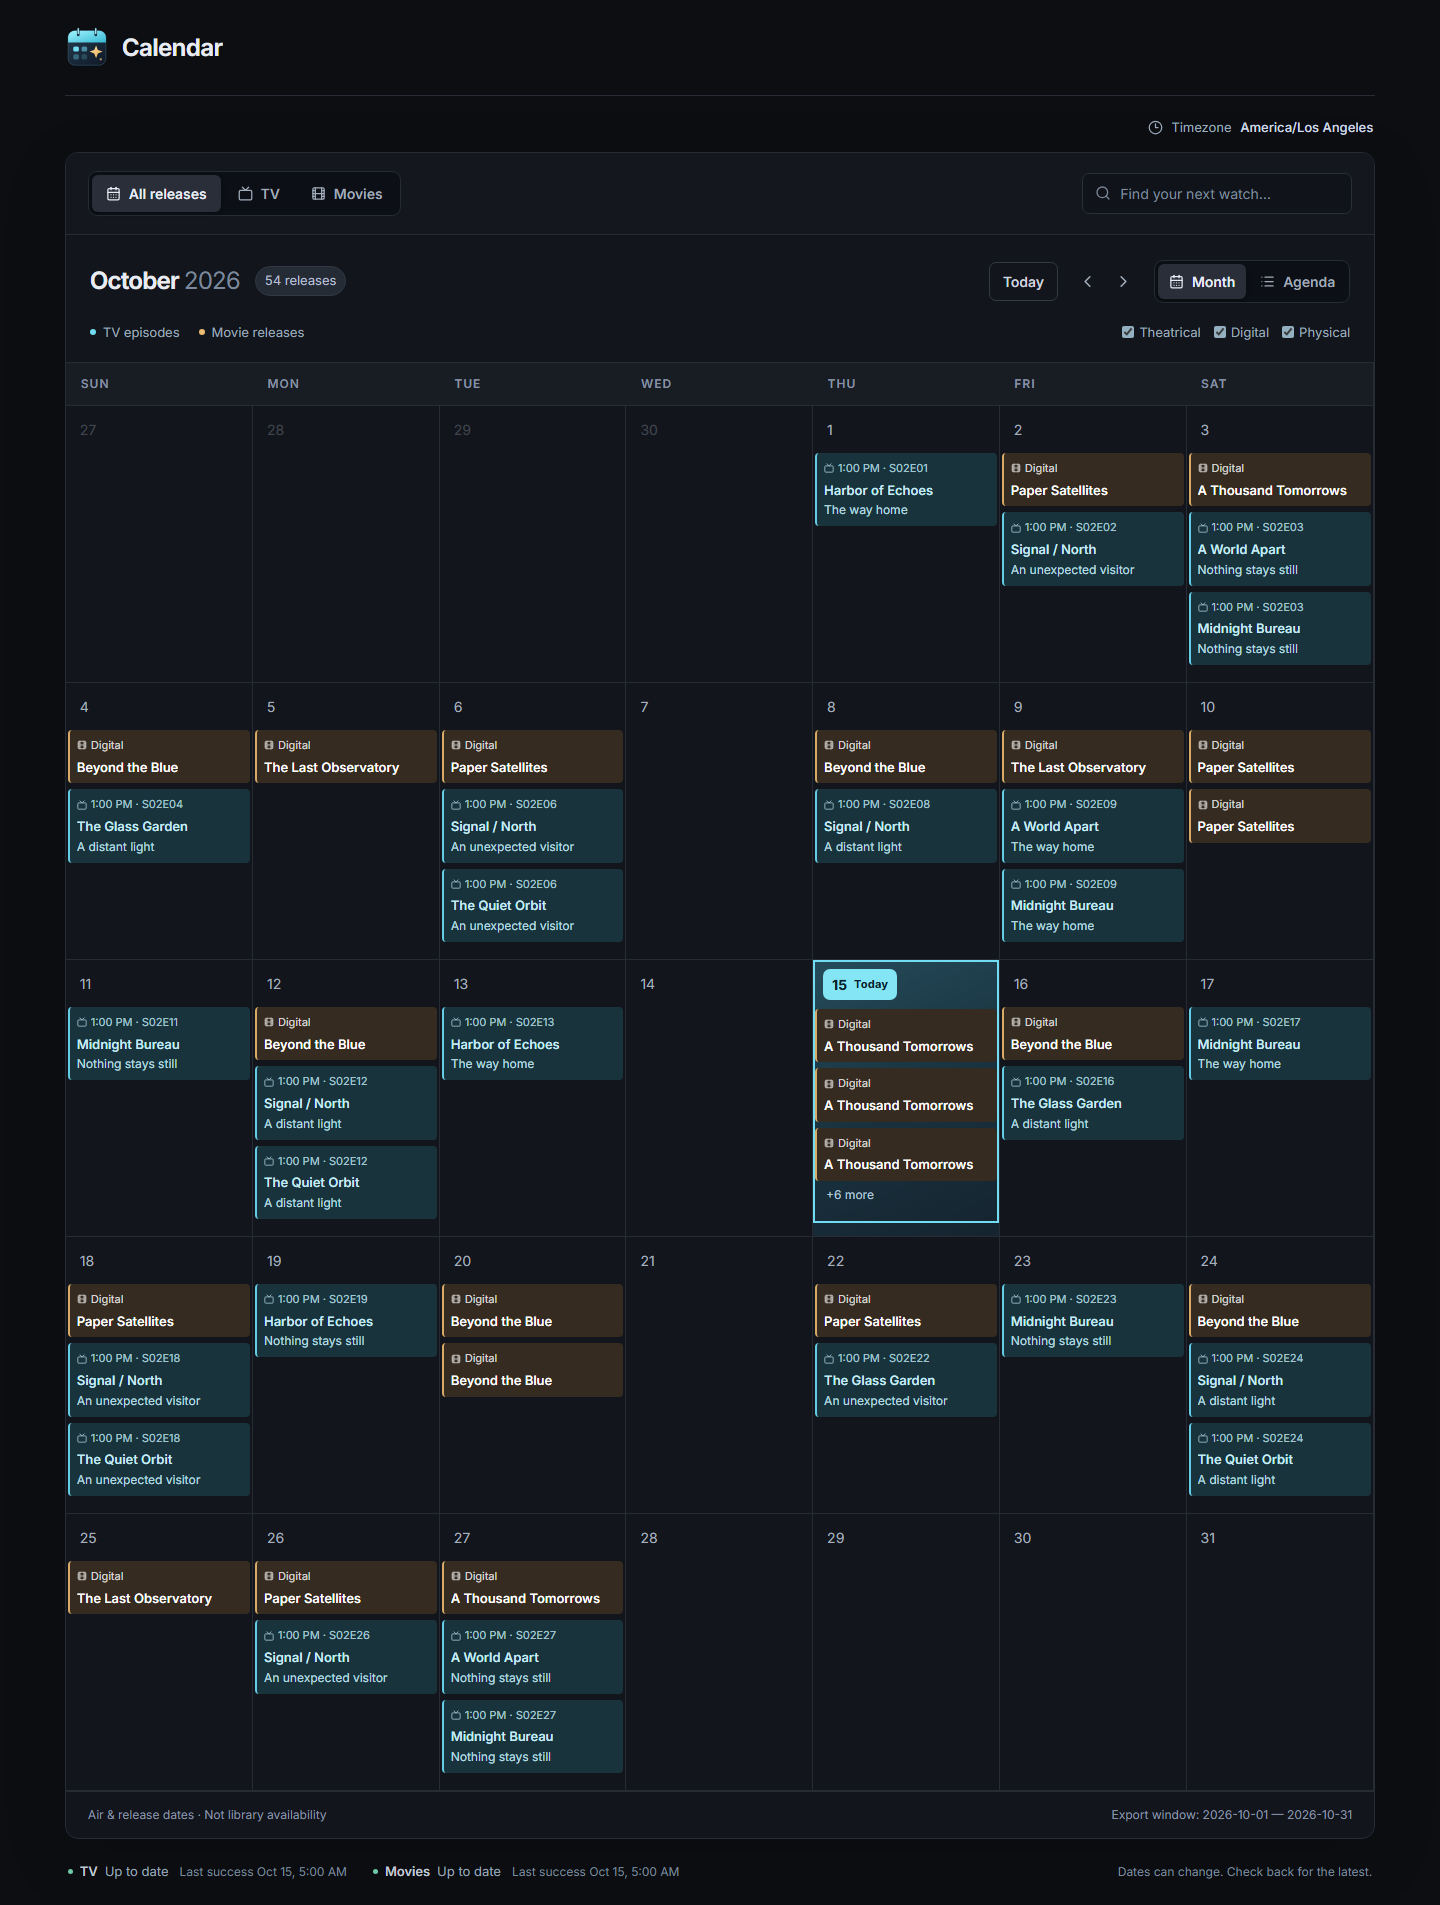
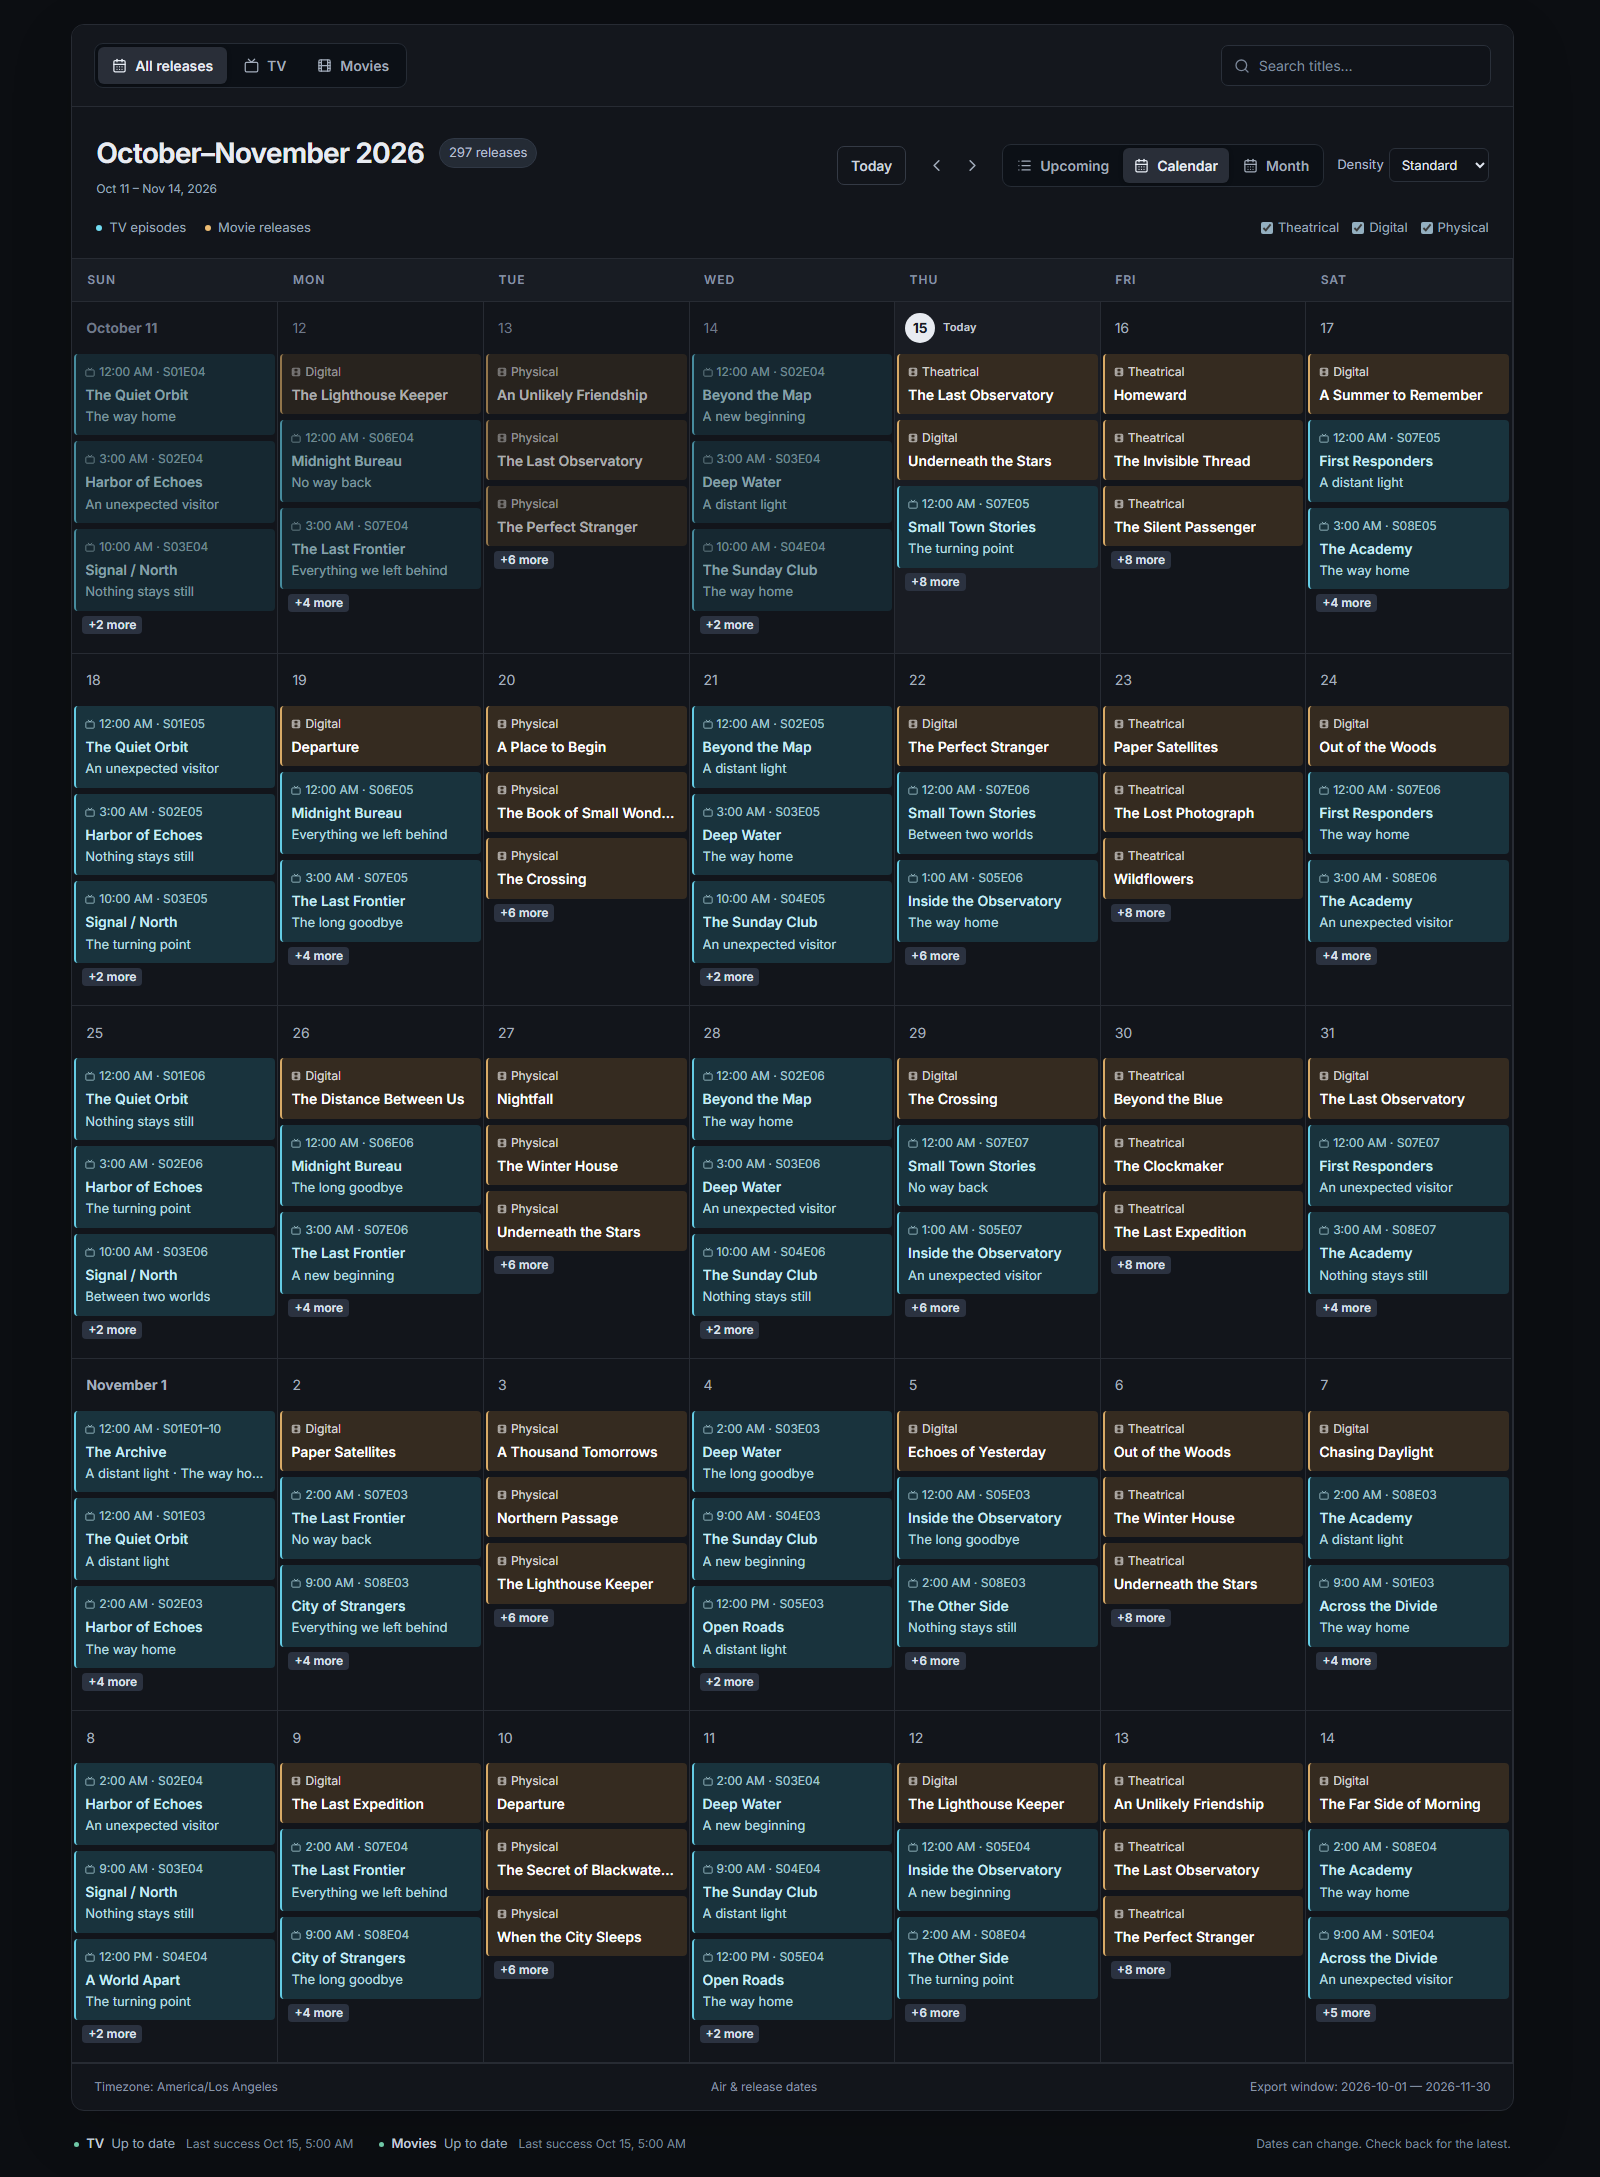
consolidate multi-episode days

diff --git a/apps/web/src/calendar.tsx b/apps/web/src/calendar.tsx
@@ -42,7 +42,6 @@ import {
   publicConfigSchema,
   snapshotSchema,
   releaseTypes,
-  type CalendarEvent,
   type Search,
   type PublicConfig,
 } from "@calendar/schema";
@@ -55,6 +54,12 @@ import {
   DialogTitle,
 } from "./components/ui/dialog";
 import { dayOf, episodeLabel } from "./lib";
+import {
+  type DisplayEvent,
+  groupEpisodes,
+  groupedEpisodeLabel,
+  groupedEpisodeTitle,
+} from "./episode-groups";
 import { stringifyCalendarSearch } from "./search";
 
 const loadMonthCalendar = () => import("./month-calendar");
@@ -148,7 +153,7 @@ function CalendarContent({
   const initialView = preferred === "month" ? "month" : undefined;
   const [futureDays, setFutureDays] = useState(30);
   const [pastDays, setPastDays] = useState(0);
-  const [selected, setSelected] = useState<CalendarEvent | null>(null);
+  const [selected, setSelected] = useState<DisplayEvent | null>(null);
   const [clock, setClock] = useState(() => Date.now());
   useEffect(() => {
     const timer = setInterval(() => setClock(Date.now()), 60000);
@@ -340,7 +345,13 @@ function CalendarContent({
         ),
     [events, dates, view, week, gridEnd, rangeStart, rangeEnd],
   );
-  const groups = Map.groupBy(visible, (e) => dates.get(e.id)!);
+  const displayEvents = useMemo(
+    () => groupEpisodes(events, config.timezone),
+    [events, config.timezone],
+  );
+  const groups = Map.groupBy(groupEpisodes(visible, config.timezone), (e) =>
+    dates.get(e.id)!,
+  );
   if (view === "agenda" && !groups.has(todayDate)) groups.set(todayDate, []);
   const orderedGroups = [...groups].sort(([a], [b]) => a.localeCompare(b));
   const canShowEarlier = !!data && rangeStart > data.coverage.start;
@@ -362,7 +373,7 @@ function CalendarContent({
       const c = data.sources[source].coverage;
       return c && (week < c.start || gridEnd > c.end);
     });
-  const openEvent = useCallback((e: CalendarEvent) => {
+  const openEvent = useCallback((e: DisplayEvent) => {
     focusReturn.current =
       document.activeElement instanceof HTMLElement
         ? document.activeElement
@@ -588,7 +599,7 @@ function CalendarContent({
                       week={week}
                       density={density}
                       standardMonth={view === "monthly"}
-                      events={events}
+                      events={displayEvents}
                       config={config}
                       openEvent={openEvent}
                       onReady={onMonthReady}
@@ -669,7 +680,7 @@ function CalendarContent({
                                 <strong>{e.title}</strong>
                                 <small>
                                   {e.media === "tv"
-                                    ? `${episodeLabel(e)}${e.episodeTitle ? " · " + e.episodeTitle : ""}`
+                                    ? `${groupedEpisodeLabel(e)}${groupedEpisodeTitle(e) ? " · " + groupedEpisodeTitle(e) : ""}`
                                     : "Movie release"}
                                 </small>
                               </span>
@@ -793,9 +804,24 @@ function CalendarContent({
             <DialogTitle>{selected.title}</DialogTitle>
             <DialogDescription>
               {selected.media === "tv"
-                ? `${episodeLabel(selected)}${selected.episodeTitle ? " · " + selected.episodeTitle : ""}`
+                ? `${groupedEpisodeLabel(selected)}${selected.episodes && selected.episodes.length > 1 ? "" : selected.episodeTitle ? " · " + selected.episodeTitle : ""}`
                 : "An upcoming movie release."}
             </DialogDescription>
+            {selected.episodes && selected.episodes.length > 1 && (
+              <ul className="detail-episodes">
+                {selected.episodes.map((episode) => (
+                  <li key={episode.id}>
+                    <strong>
+                      {episodeLabel(episode)}
+                      {episode.episodeTitle ? ` · ${episode.episodeTitle}` : ""}
+                    </strong>
+                    <small>
+                      {timeLabel(episode, config)} · {timezone}
+                    </small>
+                  </li>
+                ))}
+              </ul>
+            )}
             <div className="detail-date">
               <CalendarDays size={18} />
               <span>

diff --git a/apps/web/src/month-calendar.tsx b/apps/web/src/month-calendar.tsx
@@ -7,8 +7,12 @@ import type {
   EventClickArg,
   EventContentArg,
 } from "@fullcalendar/core";
-import type { CalendarEvent, PublicConfig } from "@calendar/schema";
-import { episodeLabel } from "./lib";
+import type { PublicConfig } from "@calendar/schema";
+import {
+  type DisplayEvent,
+  groupedEpisodeLabel,
+  groupedEpisodeTitle,
+} from "./episode-groups";
 import { labels, timeLabel } from "./event-format";
 const plugins = [dayGridPlugin];
 const views = {
@@ -37,9 +41,9 @@ export default memo(function MonthCalendar({
   week: string;
   standardMonth?: boolean;
   density?: Density;
-  events: CalendarEvent[];
+  events: DisplayEvent[];
   config: PublicConfig;
-  openEvent: (event: CalendarEvent) => void;
+  openEvent: (event: DisplayEvent) => void;
   onReady: () => void;
 }) {
   const calendar = useRef<FullCalendar>(null);
@@ -103,14 +107,14 @@ export default memo(function MonthCalendar({
   // synchronous height/overflow recalculations. textContent keeps titles inert.
   const renderEvent = useCallback(
     (info: EventContentArg) => {
-      const event = info.event.extendedProps.record as CalendarEvent;
+      const event = info.event.extendedProps.record as DisplayEvent;
       const card = document.createElement("div");
       card.className = "event-content";
       const meta = document.createElement("span");
       meta.className = "event-meta";
       meta.textContent =
         event.media === "tv"
-          ? `${timeLabel(event, config)} · ${episodeLabel(event)}`
+          ? `${timeLabel(event, config)} · ${groupedEpisodeLabel(event)}`
           : labels[event.releaseType];
       const title = document.createElement("strong");
       const icon = document.createElementNS(
@@ -135,10 +139,10 @@ export default memo(function MonthCalendar({
       meta.prepend(icon);
       title.textContent = event.title;
       card.append(meta, title);
-      if (event.media === "tv" && event.episodeTitle) {
+      if (event.media === "tv" && groupedEpisodeTitle(event)) {
         const episode = document.createElement("span");
         episode.className = "episode-title";
-        episode.textContent = event.episodeTitle;
+        episode.textContent = groupedEpisodeTitle(event) ?? "";
         card.append(episode);
       }
       return { domNodes: [card] };
@@ -147,7 +151,7 @@ export default memo(function MonthCalendar({
   );
   const handleEventClick = useCallback(
     (info: EventClickArg) =>
-      openEvent(info.event.extendedProps.record as CalendarEvent),
+      openEvent(info.event.extendedProps.record as DisplayEvent),
     [openEvent],
   );
   return (

diff --git a/apps/web/src/episode-groups.ts b/apps/web/src/episode-groups.ts
@@ -1,0 +1,73 @@
+import type { CalendarEvent } from "@calendar/schema";
+import { dayOf, episodeLabel } from "./lib";
+
+type Episode = Extract<CalendarEvent, { media: "tv" }>;
+export type DisplayEvent = CalendarEvent & { episodes?: Episode[] };
+
+// Group only the filtered display records; the source snapshot stays intact.
+export function groupEpisodes(
+  events: CalendarEvent[],
+  timezone: "local" | "UTC",
+): DisplayEvent[] {
+  const result: DisplayEvent[] = [];
+  const groups = new Map<string, DisplayEvent>();
+  for (const event of events) {
+    if (
+      event.media !== "tv" ||
+      event.season === undefined ||
+      event.episode === undefined
+    ) {
+      result.push(event);
+      continue;
+    }
+    // The public snapshot has no series ID, so use its exact show title.
+    const key = JSON.stringify([
+      event.title,
+      event.season,
+      dayOf(event, timezone),
+    ]);
+    const group = groups.get(key);
+    if (group?.episodes) {
+      group.episodes.push(event);
+    } else {
+      const entry = { ...event, episodes: [event] };
+      groups.set(key, entry);
+      result.push(entry);
+    }
+  }
+  return result.map((group) => {
+    if (!group.episodes) return group;
+    const episodes = [...group.episodes].sort(
+      (a, b) => Date.parse(a.at) - Date.parse(b.at),
+    );
+    return { ...episodes[0], episodes };
+  });
+}
+
+export function groupedEpisodeLabel(event: DisplayEvent) {
+  if (!event.episodes || event.episodes.length < 2) return episodeLabel(event);
+  const numbers = [...new Set(event.episodes.map((e) => e.episode!))].sort(
+    (a, b) => a - b,
+  );
+  const ranges: string[] = [];
+  for (let i = 0; i < numbers.length; i++) {
+    const first = numbers[i];
+    let last = first;
+    while (numbers[i + 1] === last + 1) last = numbers[++i];
+    const pad = (n: number) => String(n).padStart(2, "0");
+    ranges.push(first === last ? pad(first) : `${pad(first)}–${pad(last)}`);
+  }
+  return `S${String(event.episodes[0].season).padStart(2, "0")}E${ranges.join(", ")}`;
+}
+
+export function groupedEpisodeTitle(event: DisplayEvent) {
+  return event.episodes
+    ? [...event.episodes]
+        .sort((a, b) => a.episode! - b.episode!)
+        .map((e) => e.episodeTitle)
+        .filter(Boolean)
+        .join(" · ")
+    : event.media === "tv"
+      ? event.episodeTitle
+      : undefined;
+}

diff --git a/tests/episode-groups.test.ts b/tests/episode-groups.test.ts
@@ -1,0 +1,68 @@
+import { expect, it } from "vitest";
+import type { CalendarEvent } from "../packages/calendar-schema/src/index";
+import {
+  groupEpisodes,
+  groupedEpisodeLabel,
+  groupedEpisodeTitle,
+} from "../apps/web/src/episode-groups";
+
+const episode = (number: number, extra = {}): CalendarEvent => ({
+  id: `sonarr:${number}:air`,
+  media: "tv",
+  releaseType: "air",
+  title: "VisionQuest",
+  season: 1,
+  episode: number,
+  at: "2026-10-28T01:00:00Z",
+  episodeTitle: `Episode ${number}`,
+  ...extra,
+});
+
+it("combines a double bill, keeps original records and uses the earliest instant", () => {
+  const later = episode(6, { at: "2026-10-27T18:50:00-07:00" });
+  const earlier = episode(5);
+  const grouped = groupEpisodes([later, earlier], "UTC");
+  expect(grouped).toHaveLength(1);
+  expect(grouped[0].id).toBe(earlier.id);
+  expect(grouped[0].episodes).toEqual([earlier, later]);
+  expect(groupedEpisodeLabel(grouped[0])).toBe("S01E05–06");
+  expect(groupedEpisodeTitle(grouped[0])).toBe("Episode 5 · Episode 6");
+  expect(earlier).not.toHaveProperty("episodes");
+});
+
+it("does not imply missing episodes and handles a season drop", () => {
+  expect(
+    groupedEpisodeLabel(
+      groupEpisodes([episode(8), episode(5), episode(6)], "UTC")[0],
+    ),
+  ).toBe("S01E05–06, 08");
+  expect(
+    groupedEpisodeLabel(
+      groupEpisodes(
+        Array.from({ length: 12 }, (_, i) => episode(i + 1)),
+        "UTC",
+      )[0],
+    ),
+  ).toBe("S01E01–12");
+});
+
+it("keeps different dates, shows, seasons, unnumbered episodes and movies separate", () => {
+  const records: CalendarEvent[] = [
+    episode(5),
+    episode(6, { at: "2026-10-29T01:00:00Z" }),
+    episode(7, { title: "Other show" }),
+    episode(8, { season: 2 }),
+    episode(9, { episode: undefined }),
+    {
+      id: "radarr:1:digital",
+      media: "movie",
+      title: "VisionQuest",
+      releaseType: "digital",
+      date: "2026-10-28",
+    },
+  ];
+  expect(groupEpisodes(records, "UTC")).toHaveLength(records.length);
+  expect(groupedEpisodeLabel(groupEpisodes([episode(6)], "UTC")[0])).toBe(
+    "S01E06",
+  );
+});

diff --git a/tests/browser/calendar.spec.ts b/tests/browser/calendar.spec.ts
@@ -812,3 +812,46 @@ test("view selection works when storage is unavailable", async ({ page }) => {
   await page.reload();
   await expect(page.locator(".fc-dayGridMonth-view")).toBeVisible();
 });
+
+test("same-day episodes share a card and retain individual details", async ({
+  page,
+}) => {
+  const snapshot = demoSnapshot(fixed);
+  snapshot.events = [5, 6].map((episode) => ({
+    id: `sonarr:${episode}:air`,
+    media: "tv" as const,
+    releaseType: "air" as const,
+    title: "VisionQuest",
+    season: 1,
+    episode,
+    episodeTitle: episode === 5 ? "Firewall" : "Deadlock",
+    at: episode === 5 ? "2026-10-16T01:00:00Z" : "2026-10-16T01:50:00Z",
+  }));
+  await page.route("**/data/calendar.json", (route) =>
+    route.fulfill({ json: snapshot }),
+  );
+  await page.route("**/config.json", (route) =>
+    route.fulfill({ json: { title: "Calendar", timezone: "local" } }),
+  );
+  await page.goto("/?view=month&week=2026-10-11");
+  const card = page
+    .locator(".fc-daygrid-event")
+    .filter({ hasText: "VisionQuest" });
+  await expect(card).toHaveCount(1);
+  await expect(card).toContainText("S01E05–06");
+  await card.click();
+  const details = page.getByRole("dialog");
+  await expect(details.locator(".detail-episodes li")).toHaveCount(2);
+  await expect(details).toContainText("Firewall");
+  await expect(details).toContainText("Deadlock");
+  await expect(details).toContainText("6:00 PM");
+  await expect(details).toContainText("6:50 PM");
+  await page.getByRole("button", { name: "Close details" }).click();
+  await page.getByRole("button", { name: "Upcoming", exact: true }).click();
+  await expect(page.locator(".agenda-event")).toHaveCount(1);
+  await expect(page.locator(".agenda-event")).toContainText("S01E05–06");
+  await page.getByRole("textbox", { name: "Search titles" }).fill("Deadlock");
+  await page.getByRole("textbox", { name: "Search titles" }).press("Enter");
+  await expect(page.locator(".agenda-event")).toContainText("S01E06");
+  await expect(page.locator(".agenda-event")).not.toContainText("Firewall");
+});

diff --git a/apps/web/src/styles.css b/apps/web/src/styles.css
@@ -1362,3 +1362,21 @@ h2 > span {
 .standard-shell .skeleton-month-grid > div {
   min-height: 270px;
 }
+
+.detail-episodes {
+  list-style: none;
+  padding: 0;
+  margin: 20px 0 0;
+  max-height: 40vh;
+  overflow-y: auto;
+}
+.detail-episodes li {
+  padding: 10px 0;
+  border-top: 1px solid #333e4d;
+  font-size: 14px;
+}
+.detail-episodes small {
+  display: block;
+  margin-top: 5px;
+  color: #8fa0b7;
+}
